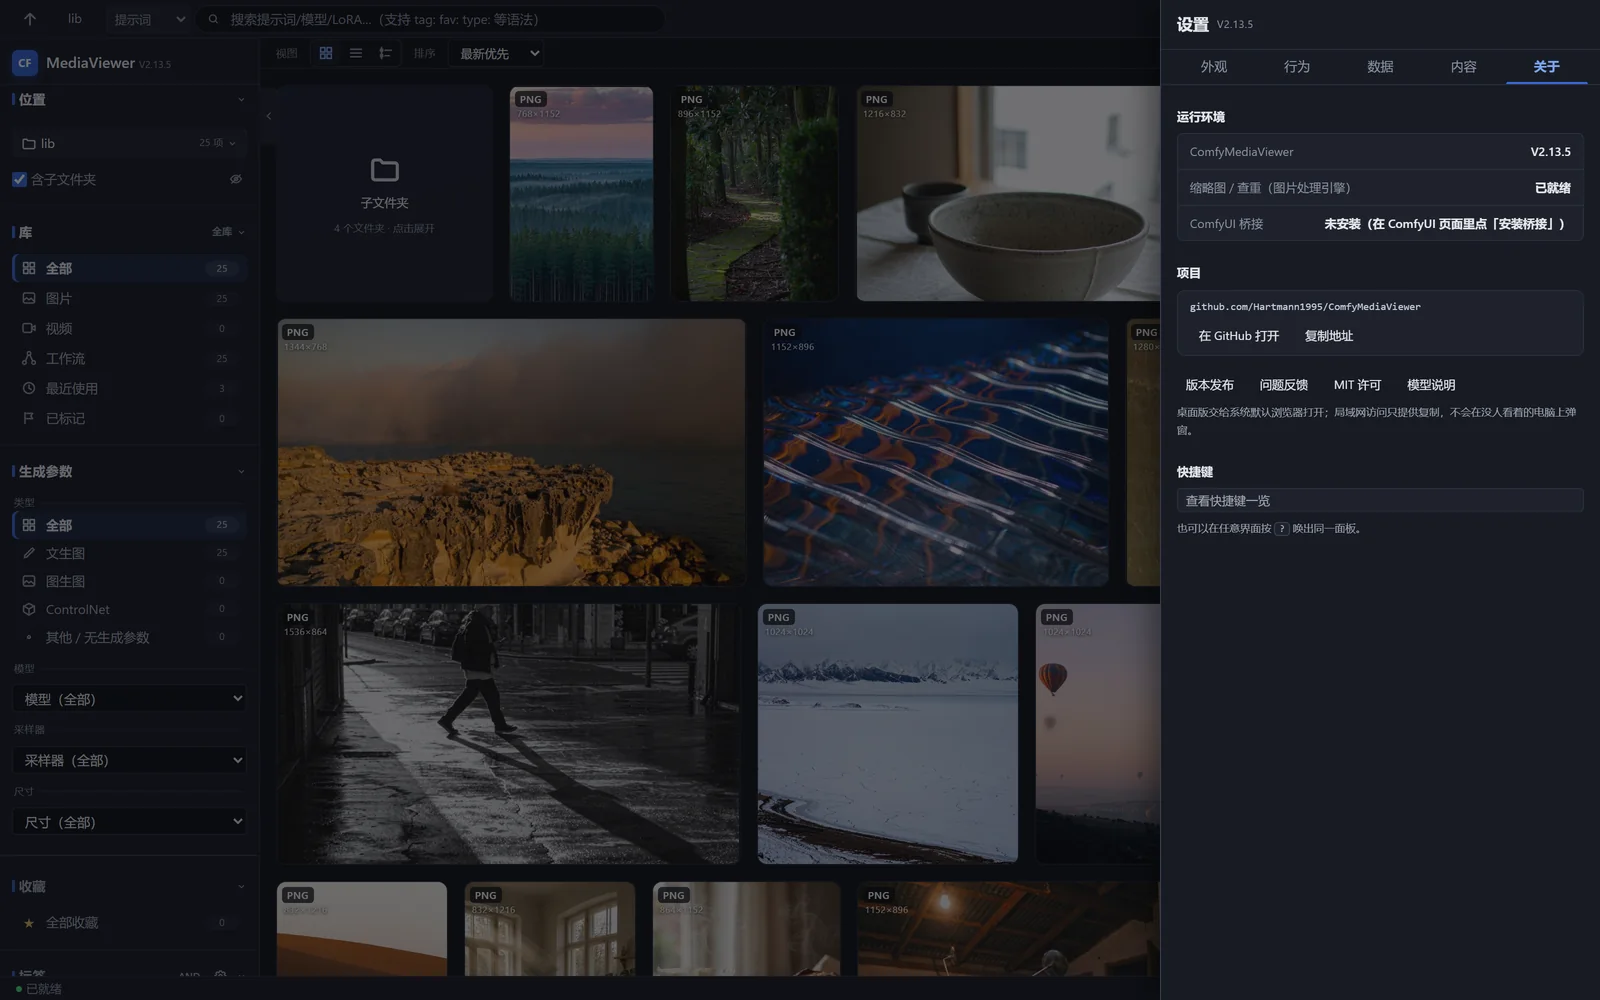
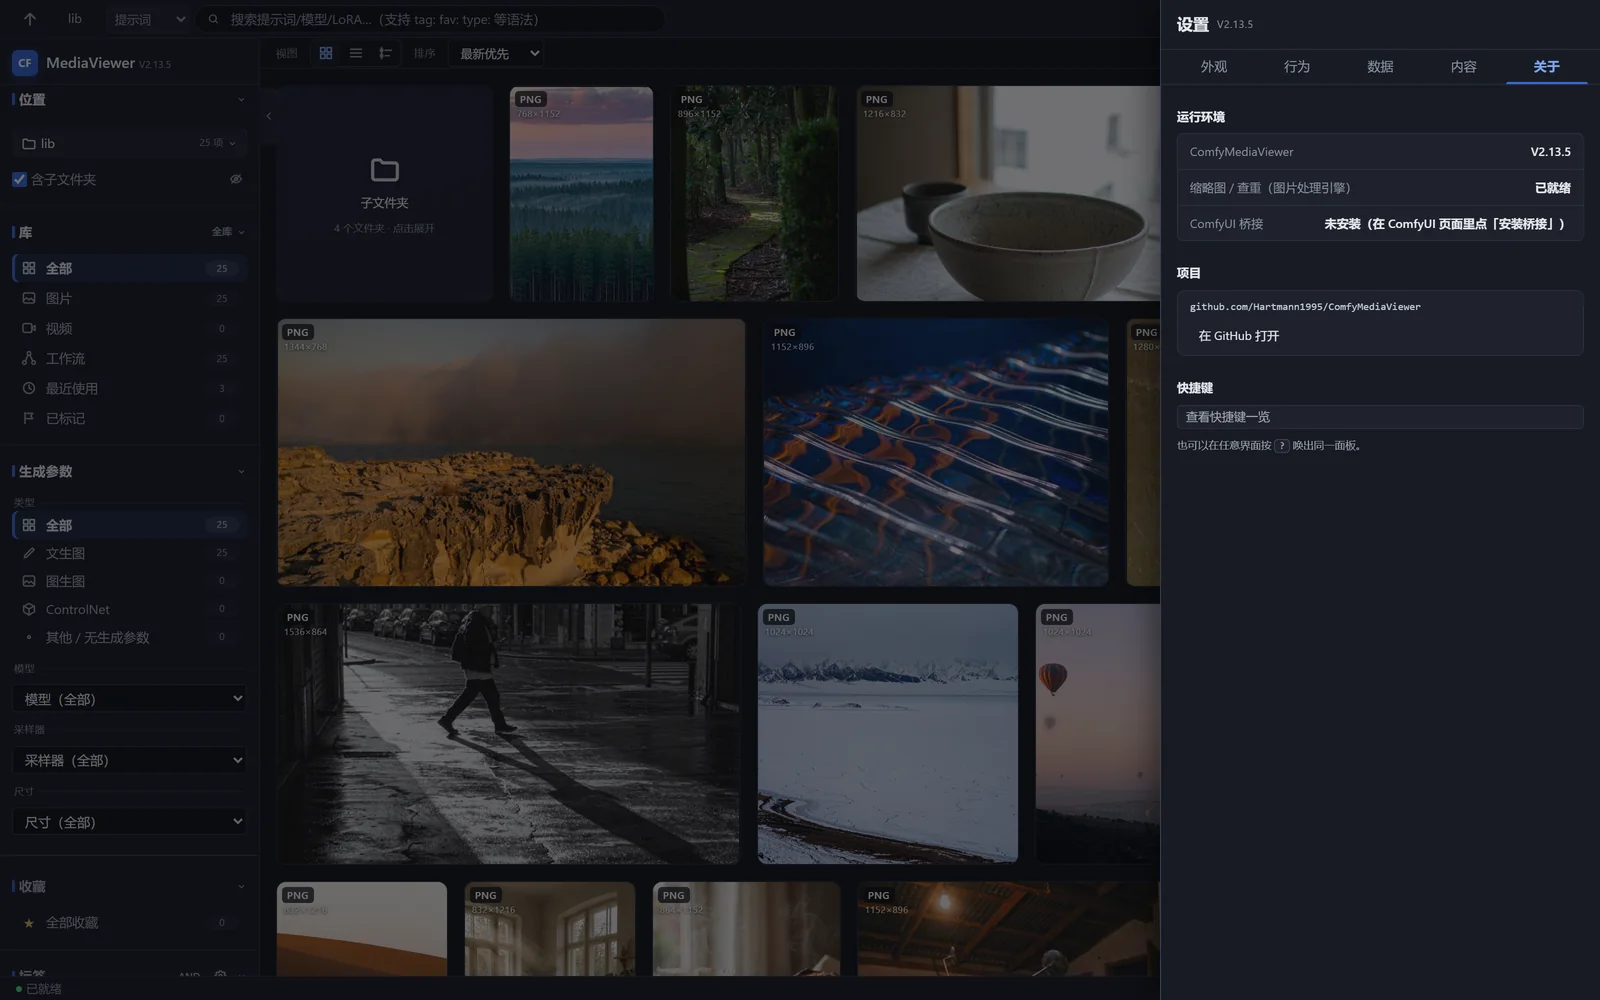
关于页：项目分组只留仓库地址与「在 GitHub 打开」，删掉四个次级入口与复制按钮

Changed region(s): [[0.7188, 0.372, 0.9688, 0.558], [0.8125, 0.31, 0.8438, 0.341]]

diff --git a/frontend/js/settings.js b/frontend/js/settings.js
@@ -2102,8 +2102,8 @@ window.closeLb=function(){
       repoEl.textContent = repoUrl.replace(/^https?:\/\//, "") || "—";
       repoEl.title = repoUrl;
     }
-    document.querySelectorAll("[data-about-open],[data-about-copy]").forEach(b=>{
-      const key = b.dataset.aboutOpen || b.dataset.aboutCopy;
+    document.querySelectorAll("[data-about-open]").forEach(b=>{
+      const key = b.dataset.aboutOpen;
       b.disabled = !(aboutLinks && aboutLinks[key]);
     });
     /* ---- F28 数据目录位置：分段控件反映**磁盘上的选择** ----
@@ -2207,10 +2207,12 @@ window.closeLb=function(){
   })();
   setTxt("setDataDir","—");
   /* ---- 关于页：GitHub 入口 ----
-     打开方式按运行形态分流：
+     界面上只有一个「在 GitHub 打开」。打开方式按运行形态分流：
        · 浏览器顶层页：window.open 新标签（不打断当前页）；
        · 桌面壳（iframe 内嵌 / Tauri 顶层）：页面拿不到窗口 API，交给本地后端
-         用系统默认浏览器打开。后端只认枚举 key，不接受任意 URL。 */
+         用系统默认浏览器打开。后端只认枚举 key，不接受任意 URL。
+     两条路都走不通时退回复制 —— 不设独立的「复制地址」按钮，地址本身可选中，
+     多一个按钮只是把一栏塞满。 */
   async function aboutOpen(key){
     const url = aboutLinks && aboutLinks[key];
     if(!url) return;
@@ -2234,14 +2236,6 @@ window.closeLb=function(){
   }
   document.querySelectorAll("[data-about-open]").forEach(b=>{
     b.addEventListener("click", ()=>aboutOpen(b.dataset.aboutOpen));
-  });
-  document.querySelectorAll("[data-about-copy]").forEach(b=>{
-    b.addEventListener("click", async ()=>{
-      const url = aboutLinks && aboutLinks[b.dataset.aboutCopy];
-      if(!url) return;
-      try{ await window.mvCopyText(url); toast("GitHub 地址已复制","ok"); }
-      catch(e){ toast("复制失败，请手动选中地址","err"); }
-    });
   });
 
   /* ---- P1-3 回收站自动清理：保留天数可查、可配、可关（0=关闭）----

diff --git a/frontend/css/settings.css b/frontend/css/settings.css
@@ -336,13 +336,13 @@ html[data-theme="light"] .tbadge{box-shadow:0 0 0 2px var(--panel)}
   padding:calc(2px*var(--fsx)) var(--sp-2);line-height:1.5}
 
 /* ---- 关于页 · 项目入口（2026-11-16）----
-   地址要能整串看清、又受窄抽屉约束：等宽小字 + 单行省略，title 给完整地址，
-   需要时点「复制地址」。按钮组允许换行，窄屏不会挤成一列。 */
+   只留仓库地址 + 一个「在 GitHub 打开」。地址要能整串看清、又受窄抽屉约束：
+   等宽小字 + 单行省略，title 给完整地址；地址本身可整段选中复制，所以不再设
+   独立的「复制地址」按钮。 */
 .about-repo{display:flex;flex-direction:column;gap:var(--sp-2);
   padding:var(--sp-2) var(--sp-3);background:var(--panel2);
   border:1px solid var(--border);border-radius:var(--r-lg)}
 .about-url{font-family:var(--mono);font-size:var(--fs-meta);color:var(--code-tx);
   overflow:hidden;text-overflow:ellipsis;white-space:nowrap;
   user-select:all;-webkit-user-select:all}
-.about-acts,.about-links{display:flex;flex-wrap:wrap;gap:var(--sp-2)}
-.about-links{margin-top:var(--sp-2)}
+.about-acts{display:flex;flex-wrap:wrap;gap:var(--sp-2)}

diff --git a/frontend/index.html b/frontend/index.html
@@ -653,16 +653,8 @@
             <code class="about-url" id="setRepoUrl" title="">—</code>
             <div class="about-acts">
               <button class="sm" type="button" data-about-open="repo" disabled>在 GitHub 打开</button>
-              <button class="sm" type="button" data-about-copy="repo" disabled>复制地址</button>
             </div>
           </div>
-          <div class="about-links">
-            <button class="sm" type="button" data-about-open="releases" disabled>版本发布</button>
-            <button class="sm" type="button" data-about-open="issues" disabled>问题反馈</button>
-            <button class="sm" type="button" data-about-open="license" disabled>MIT 许可</button>
-            <button class="sm" type="button" data-about-open="notice" disabled>模型说明</button>
-          </div>
-          <div class="set-gh">桌面版交给系统默认浏览器打开；局域网访问只提供复制，不会在没人看着的电脑上弹窗。</div>
         </section>
         <section class="set-grp">
           <div class="set-gl">快捷键</div>

diff --git a/doc/CHANGELOG.md b/doc/CHANGELOG.md
@@ -61,6 +61,33 @@
 
 ---
 
+## 未发版 · 调整 · 关于页「项目」只留仓库地址（2026-11-16）
+
+**用户反馈**：设置里的「项目」东西太多，完全没必要，只要留 GitHub 地址和跳转，其他都删掉。
+
+| 项 | 改前 | 改后 |
+|---|---|---|
+| 关于页「项目」分组 | 地址 + 「在 GitHub 打开」+「复制地址」，下挂版本发布 / 问题反馈 / MIT 许可 / 模型说明 四个按钮，外加一行说明 | 地址 + 「在 GitHub 打开」 |
+| `ABOUT_LINKS` | 5 个 key | 只留 `repo`；**保留枚举结构**，`/api/open_url` 仍只认 key、不接收任意 URL |
+| 复制地址 | 独立按钮 | 按钮撤掉；地址本身可整段选中（`user-select:all`），弹窗被拦或后端打不开时仍自动复制并提示，入口不会因此失效 |
+| 样式 | `.about-acts` / `.about-links` 两套 | 只留 `.about-acts`；窄屏换行规则不变 |
+
+**没丢的东西**：`LICENSE` 与 `models/nsfw/NOTICE.md` 仍然随包分发，第三方说明在模型目录里，不靠关于页的链接背书。
+
+**验证**：
+
+| 门禁 | 结果 |
+|---|---|
+| `dev/_verify_about_api.py` | **11 / 11**（`links` 只剩 `repo` · `releases` 已下线 → 400 · 未知 key 400 · 传 URL 400 · 非环回 Host 403 · `text/plain` 403） |
+| `tests/about_github_20261116_check.py` | **16 / 16**（项目分组只剩 1 个按钮 · 五个已删入口在页面上无残留 · 弹窗被拦时退回复制 · 360 / 1280 无溢出 · 桌面壳形态仍走后端） |
+| `dev/about_github_20261116_negctl.py` | **7 / 7**（5 条注入各自翻红；字节级还原 md5 一致；复绿 11/11 + 16/16） |
+
+**顺带修掉一处门禁假红**：负控 N4 上一轮以「FATAL 连到的页面不对：about:blank」翻红 —— 看着是红的，实际一条断言都没跑到。原因是 CDP 选 target 时用 `sort` 取首个，Edge 启动瞬间只有 `about:blank` 时会被选中；改成只认 URL 前缀命中的 target、找不到继续等。修后 N4 的红来自真断言（8/16），负控结论才成立。
+
+**未发版说明**：版本号仍 `2.13.5`，未重新打包。`v2.13.5` tag 也**不移动** —— 它要和 Release 附件里那个 exe 的源码对齐，这批改动等下次发版一并进包。
+
+---
+
 ## 已随 V2.13.5 重打包（2026-11-16）· 修复 · 左栏「库」的口径标注 + 当前目录张数（2026-11-16）
 
 **用户反馈**：左侧栏「库」下面的统计数字，切换目录后似乎不会变。

diff --git a/doc/使用说明.md b/doc/使用说明.md
@@ -554,7 +554,7 @@ ComfyMediaViewer.exe --root "D:\我的图片" --port 8888
 | 设置 · 外观 | 主题、**密度档位（紧凑 / 舒适 / 宽松）**、卡片大小、字体大小、缩略图裁切·适应、**卡片信息（常显文件名 / 滚动时显示）** |
 | 设置 · 行为 | 删除去向、自动刷新、重启程序 |
 | 设置 · 数据 | 数据目录（含**便携模式**）、索引进度、占用、重建索引 / 强制重扫 / 清除缩略图缓存 |
-| 设置 · 关于 | 运行环境（版本 / Pillow / 桥接）、查看快捷键一览 |
+| 设置 · 关于 | 运行环境（版本 / 图片处理引擎 / 桥接）、项目（GitHub 仓库地址，可点开）、查看快捷键一览 |
 | 内容区工具条 | 视图（网格 / 列表）、排序、**展示方式（分页 / 无限瀑布流）**、批量选择 |
 | 内容区 | 筛选状态条（当前生效条件，每条可单独 ✕）+ 媒体卡片网格 |
 | 底栏 | **状态中枢**（V2.10.5：进度 / 提示文字 + 需要时的行动按钮）、分页（‹ 页码… ›，**页码个数随窗口宽度自适应**）、**跳至 `__` / N 页**、每页数量（选「无限瀑布流」时只留状态位） |
